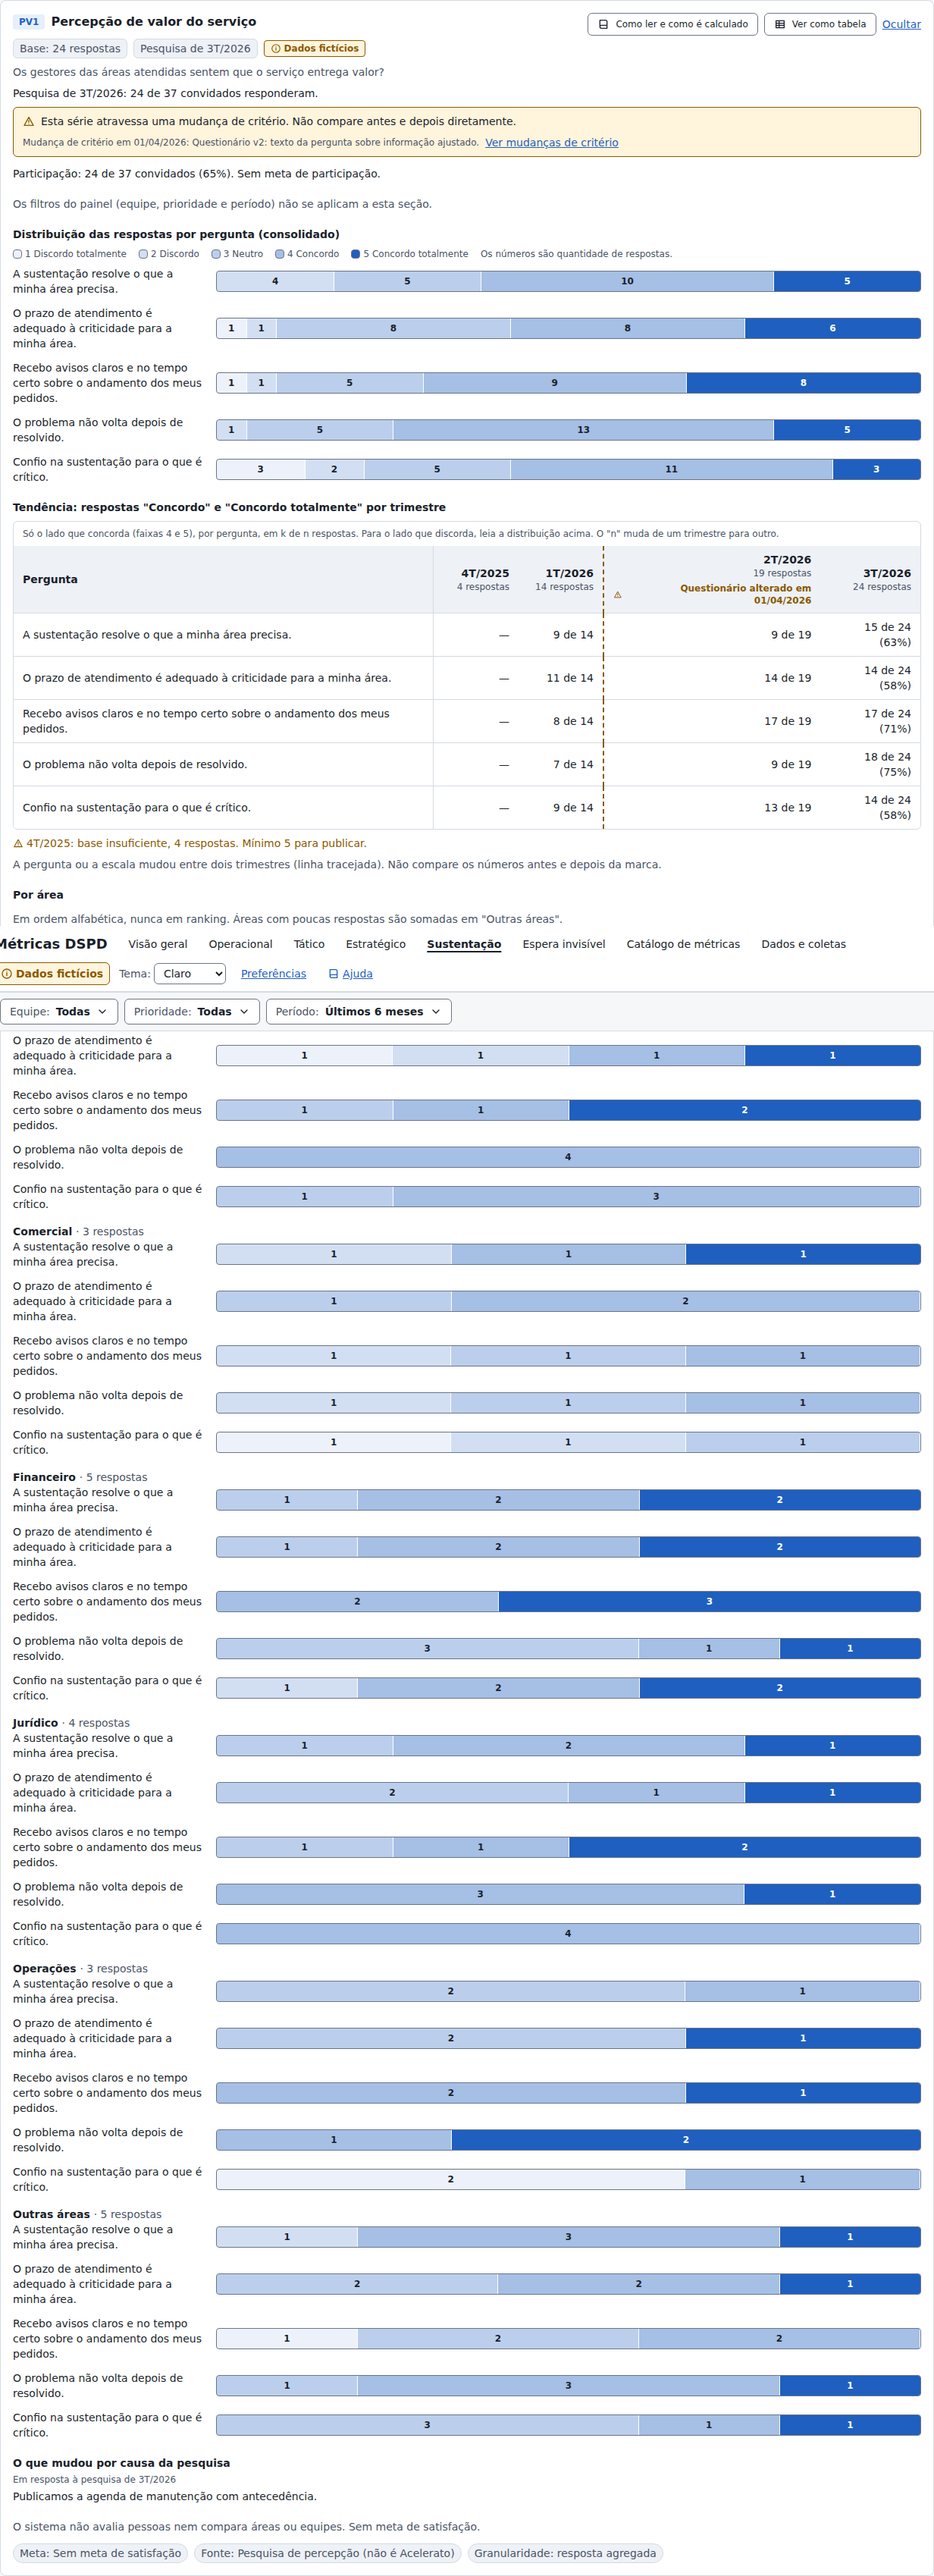
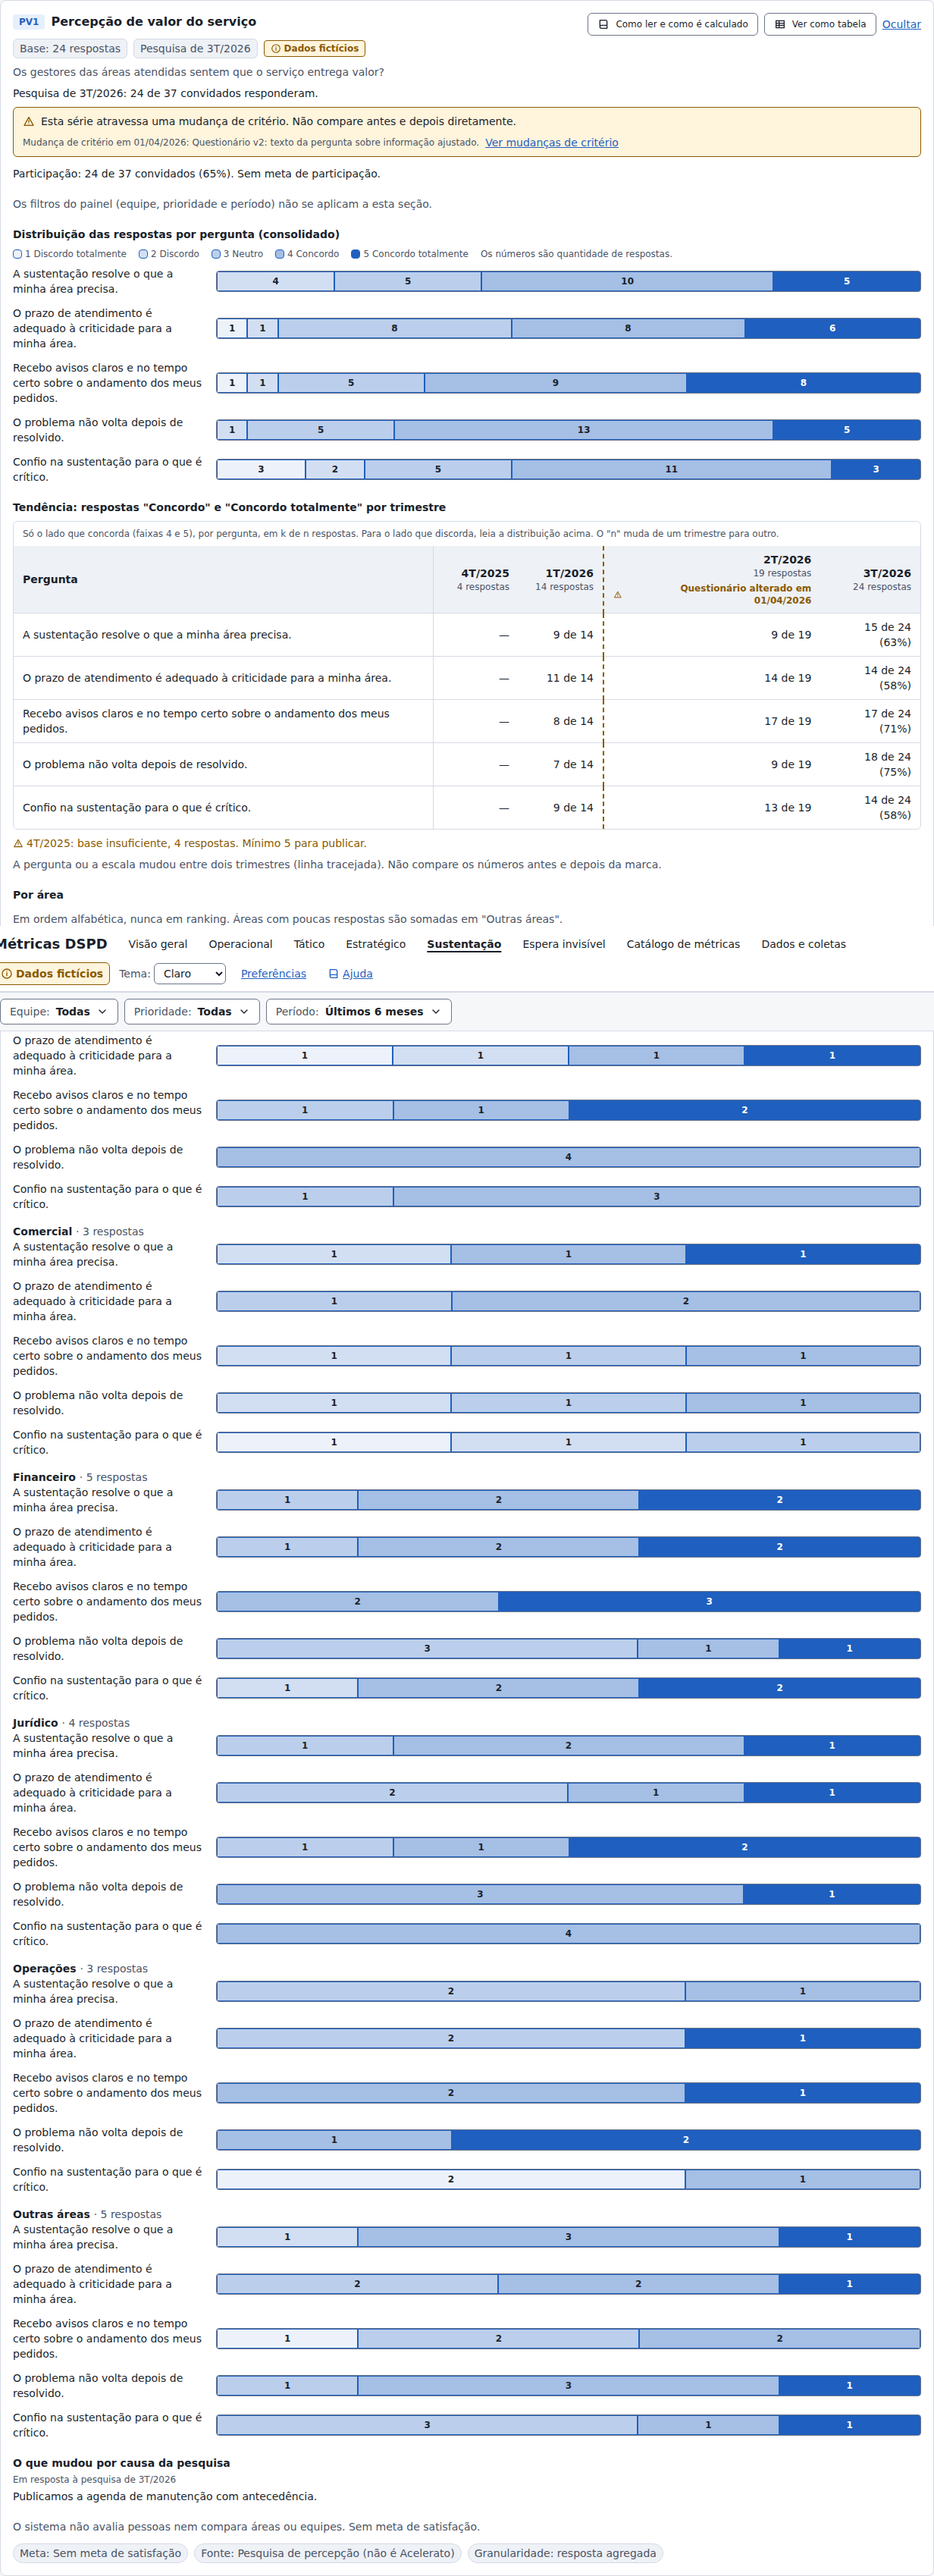
fix(percepcao): borda de acento em cada trecho da barra do PV1 (contraste não textual 3:1)
Claude-Session: https://claude.ai/code/session_01PTdEsSbxconQJZSz87QhU9

diff --git a/e2e/tests/acabamento-ux-evidencias.spec.ts b/e2e/tests/acabamento-ux-evidencias.spec.ts
@@ -51,12 +51,31 @@ for (const [w, h] of TELAS) {
           const base = fundoOpaco(el.parentElement);
           const comp = [0, 1, 2].map((i) => Math.round(bg[i]! * bg[3] + base[i]! * (1 - bg[3])));
           const tx = rgba(cs.color);
-          return { faixa: el.getAttribute('data-faixa'), fundoBase: base, bgRgba: bg, composto: comp, texto: tx.slice(0, 3) };
+          return { faixa: el.getAttribute('data-faixa'), fundoBase: base, bgRgba: bg, composto: comp, texto: tx.slice(0, 3), bordaLargura: parseFloat(cs.borderTopWidth), borda: rgba(cs.borderTopColor).slice(0, 3) };
         });
       });
+      // WCAG 1.4.11: a borda de cada trecho (ou o preenchimento) precisa de 3:1 contra o fundo do cartão.
+      const lum = (c: number[]) => {
+        const [r, g, b] = c.map((v) => { const x = v! / 255; return x <= 0.03928 ? x / 12.92 : ((x + 0.055) / 1.055) ** 2.4; });
+        return 0.2126 * r! + 0.7152 * g! + 0.0722 * b!;
+      };
+      const razao = (a: number[], b: number[]) => {
+        const [x, y] = [lum(a), lum(b)];
+        return (Math.max(x, y) + 0.05) / (Math.min(x, y) + 0.05);
+      };
+      expect(medidas).toHaveLength(5);
+      const contrastes = medidas.map((m) => ({
+        faixa: m.faixa,
+        borda: Number(razao(m.borda, m.fundoBase).toFixed(2)),
+        preenchimento: Number(razao(m.composto, m.fundoBase).toFixed(2)),
+      }));
+      for (const [i, m] of medidas.entries()) {
+        expect(m.bordaLargura, `faixa ${m.faixa} sem borda`).toBeGreaterThan(0);
+        expect(contrastes[i]!.borda, `faixa ${m.faixa} (${t}) borda/fundo`).toBeGreaterThanOrEqual(3);
+      }
       await writeFile(
         `${OUT}/medidas-${w}-${t}.json`,
-        JSON.stringify({ axeCartao, axePagina: axe, medidas }, null, 1),
+        JSON.stringify({ axeCartao, axePagina: axe, medidas, contrastes }, null, 1),
       );
     });
   }

diff --git a/web/src/features/percepcao/Distribuicao.tsx b/web/src/features/percepcao/Distribuicao.tsx
@@ -11,7 +11,8 @@ type Publicado = Extract<Ok['consolidado'], { status: 'publicado' }>
 /**
  * Rampa de um só matiz (acento), do mais claro ao mais escuro: não sugere semáforo nem "bom" e "ruim" (L-6).
  * A faixa nunca depende da cor: cada trecho traz o número de respostas e a legenda escrita vem acima (a tabela
- * equivalente traz o resto). Passos até 40% mantêm o texto do tema acima de 4,5:1 nos dois temas.
+ * equivalente traz o resto). Passos até 40% mantêm o texto do tema acima de 4,5:1 nos dois temas. Cada trecho tem
+ * borda `acento` (contraste >= 3:1 contra o fundo, WCAG 1.4.11), que também separa as faixas vizinhas.
  */
 const CLASSE_FAIXA = [
   'bg-acento/8 text-texto',
@@ -33,7 +34,7 @@ export function LegendaFaixas() {
           <span
             aria-hidden="true"
             className={clsx(
-              'inline-block size-3 rounded-sm border border-borda-controle',
+              'inline-block size-3 rounded-sm border border-acento',
               CLASSE_FAIXA[i]?.split(' ')[0],
             )}
           />
@@ -132,7 +133,7 @@ export function Distribuicao({
                   data-faixa={f.faixa}
                   style={{ flexGrow: f.contagem.k, flexBasis: 0 }}
                   className={clsx(
-                    'flex items-center justify-center border-r border-superficie last:border-r-0',
+                    'flex items-center justify-center border border-acento',
                     CLASSE_FAIXA[f.faixa - 1],
                     f.contagem.k >= 100 ? 'min-w-8' : f.contagem.k > 0 ? 'min-w-5' : 'hidden',
                   )}

diff --git a/web/src/features/percepcao/percepcao.test.tsx b/web/src/features/percepcao/percepcao.test.tsx
@@ -167,6 +167,9 @@ describe('CartaoPV1: publicado (n = 24, com percentual)', () => {
     // faixa com 0 respostas não ocupa espaço; as demais trazem o número.
     const faixas = barras[0]?.querySelectorAll('[data-faixa]') ?? []
     expect([...faixas].map((f) => f.textContent)).toEqual(['0', '1', '1', '11', '11'])
+    // contraste não textual (1.4.11): cada trecho e cada amostra da legenda têm borda do token `acento`.
+    for (const f of faixas) expect(f).toHaveClass('border', 'border-acento')
+    expect(legenda.querySelectorAll('span.border-acento')).toHaveLength(5)
     expect(within(el).queryByTestId('pv1-so-k-de-n')).toBeNull()
     expect(within(el).queryByText('n = 24')).toBeNull()
   })

diff --git a/docs/ux/lacuna-de-valor/06-revisao.md b/docs/ux/lacuna-de-valor/06-revisao.md
@@ -107,3 +107,13 @@ Decisões tomadas pelo time com a recomendação deste relatório (o usuário de
 | L-8 | A data da quebra vem da marca T2.6 de `criterios.serie` que cai entre o trimestre anterior e a coluna; sem marca, a vigência do questionário (só se a versão é a vigente). O contrato já trazia `criterios`, sem mudança de API | `Tendencia.tsx` |
 | L-9 | Comentário do catálogo corrigido (PV1 é terceira fonte; a coluna Fonte a distingue). Sem mudança de tela | `catalogo/linhas.ts` |
 | M-4 | Roteiro de validação gerado (itens 3 e 4 do roteiro trocados); aceite do usuário segue aberto | `05-validacao.md` |
+
+## Contraste não textual da rampa (WCAG 1.4.11, achado do QA em `docs/qa/acabamento-ux.md`)
+Decisão técnica do time: a rampa de um matiz (8/20/30/40/100%) fica como está (o texto passa 4,5:1 com folga) e cada trecho da barra, e cada amostra da legenda, ganha borda do token `acento` (`border border-acento`), que também separa as faixas vizinhas. Sem mudança de regra, de matiz nem de dado; a faixa continua sem depender só da cor.
+
+| Tema | Borda/fundo (todas as faixas) | Preenchimento/fundo (faixas 1 a 5) |
+|---|---|---|
+| Claro | 6,09 | 1,12; 1,35; 1,58; 1,88; 6,09 |
+| Escuro | 7,02 | 1,14; 1,45; 1,78; 2,22; 7,02 |
+
+Verificação: `e2e/tests/acabamento-ux-evidencias.spec.ts` calcula o contraste da borda de cada faixa contra o fundo nos dois temas (1280 e 375) e falha abaixo de 3:1; teste unitário em `percepcao.test.tsx`. Evidências regeneradas em `docs/qa/evidencias/acabamento-ux/`.
